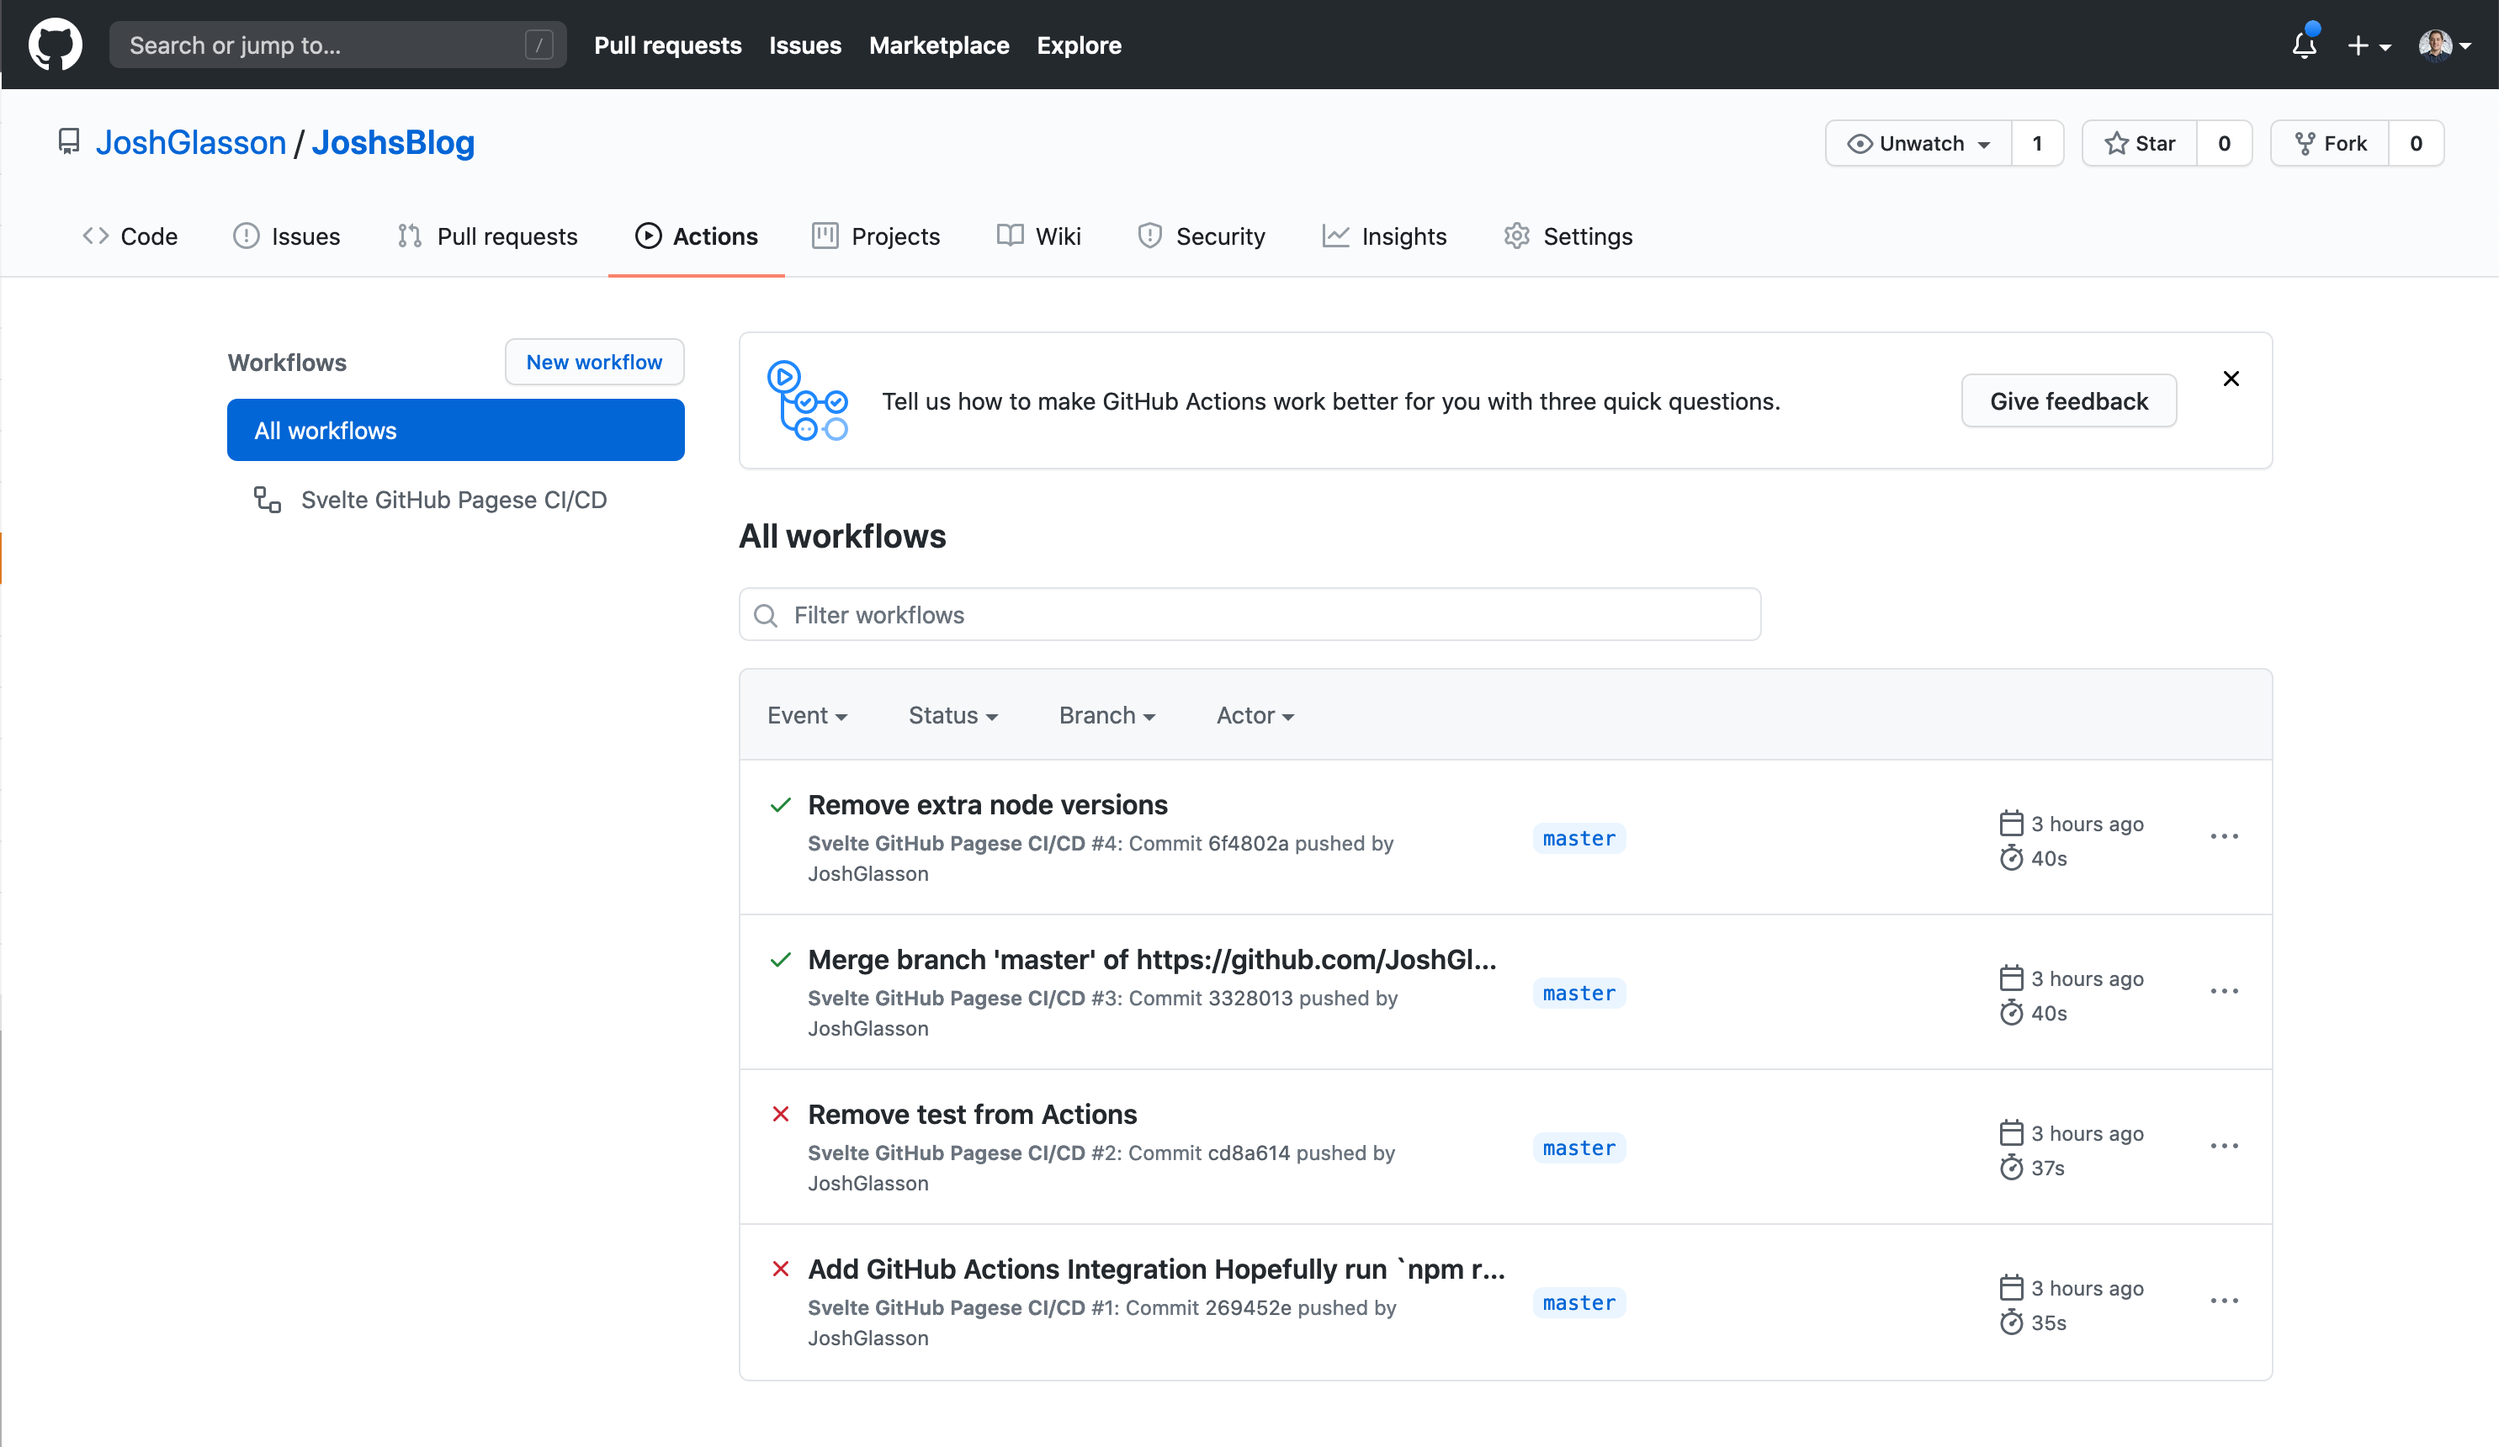
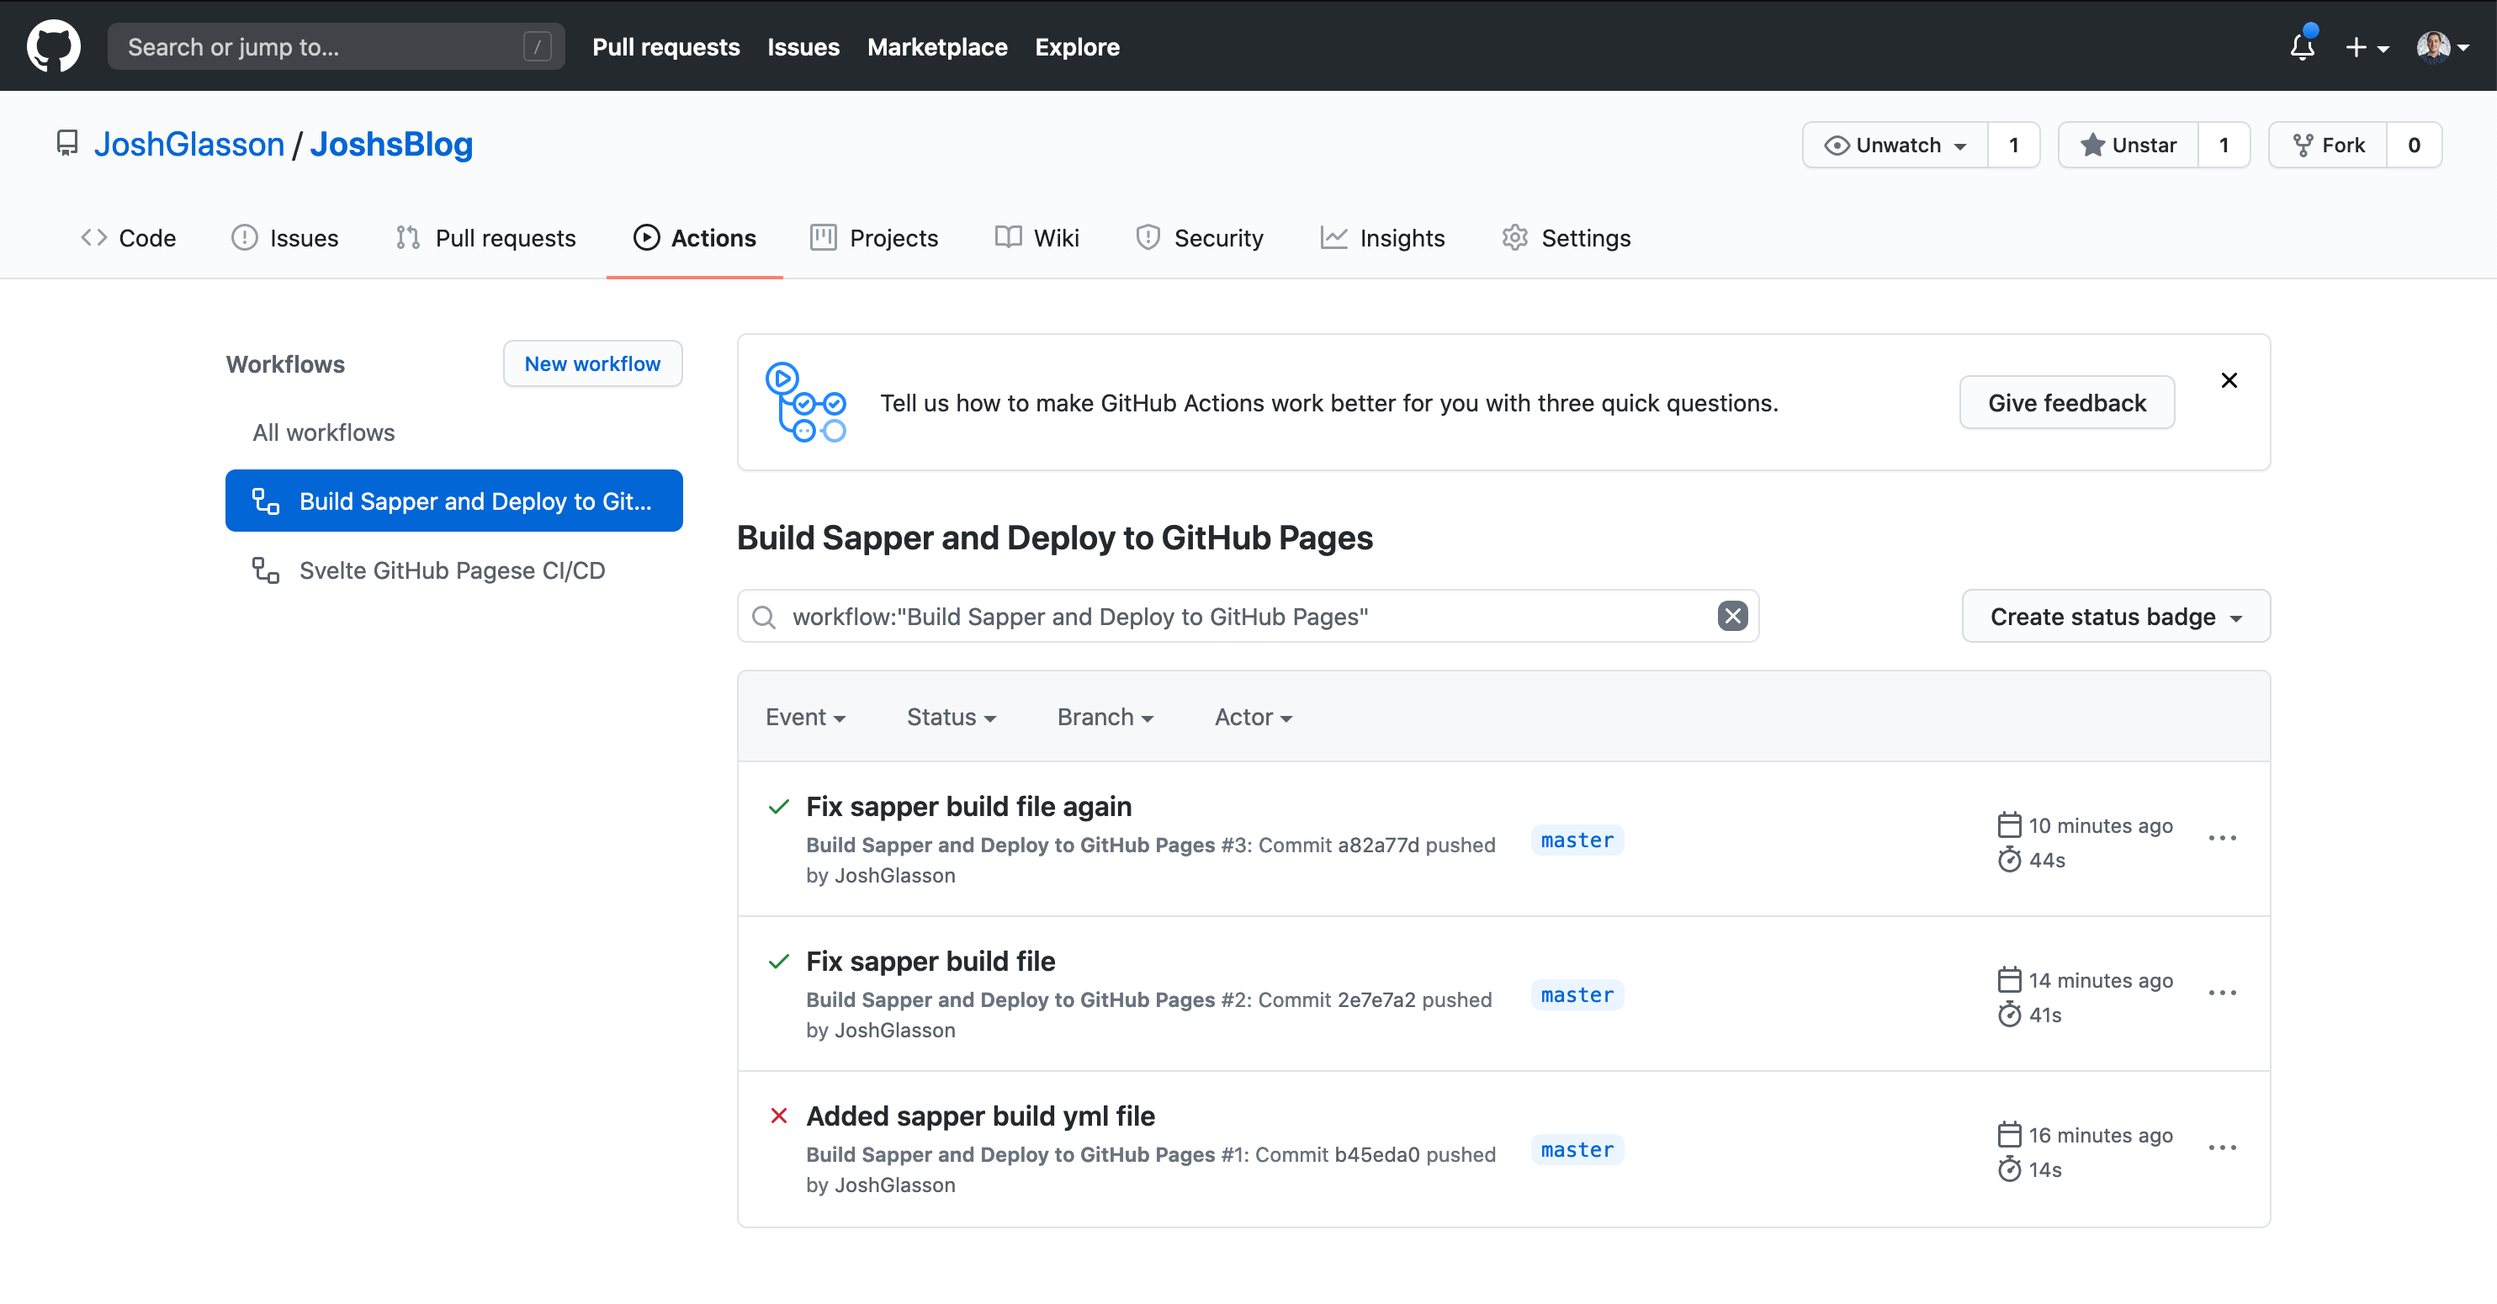
Updated blog to include Github Actions stuff

diff --git a/content/2020-07-24 creating-the-blog.md b/content/2020-07-24 creating-the-blog.md
@@ -169,9 +169,49 @@ I pretty much followed it to the word here, my only addition was adding this to 
 ```
 </div>
 
-This meant that before trying to deploy the app it would always rebuild and export it.
+This meant that before trying to deploy the app it would always rebuild and export it. I got this working and up on my GitHub Pages pretty quickly, so I can deploy with a simple `npm run reploy`. However running that command every time would be a bit annoying, so I added a GitHub Action to deploy it automatically. 
 
-I got this working and up on my GitHub Pages pretty quickly, so I can deploy with a simple `npm run reploy`.
+I found this post which helped me set up a `sapper_build.yml` file:
+<a href="https://github.com/marketplace/actions/sapper-action" target="_blank">https://github.com/marketplace/actions/sapper-action</a>
+
+<div id="codeSnippets">
+
+```yml
+name: Build Sapper and Deploy to GitHub Pages
+
+on:
+    push:
+        branches: [ master ]
+    pull_request:
+        branches: [ master ]
+
+jobs:
+  build_deploy:
+    runs-on: ubuntu-latest
+    steps:
+      - uses: actions/checkout@master
+      - name: Build Sapper
+        uses: truewebartisans/actions-sapper@master
+        with:
+            args: "--basepath JoshsBlog --legacy"
+      - name: Deploy to GitHub Pages
+        uses: peaceiris/actions-gh-pages@v3
+        with:
+          publish_dir: __sapper__/export/JoshsBlog/
+          publish_branch: gh-pages
+          github_token: ${{ secrets.GITHUB_TOKEN }}
+```
+</div>
+
+This meant that any time I pushed or merged to master, it would kick of this action, which will build and deploy my project into my gh-pages branch, where GitHub Pages reads the data from.
+
+<div id="imageDiv">
+  <figure>
+    <img src="./images/2020-07-24 creating-the-blog/github_actions.png" alt="GitHub Actions running my deploy script" />
+    <figcaption>GitHub Actions running my deploy script after each merge</figcaption>
+  </figure>
+</div>
+
 
 I realised that the posts were in chronological order, as in oldest at the top. That doesn't make much sense for a blog, so I flipped it round by editing the function used to retrieve the posts:
 

diff --git a/README.md b/README.md
@@ -1,5 +1,7 @@
 # Joshs Blog
 
+![Build Sapper and Deploy to GitHub Pages](https://github.com/JoshGlasson/JoshsBlog/workflows/Build%20Sapper%20and%20Deploy%20to%20GitHub%20Pages/badge.svg)
+
 This is the source code for my blog site. The gh-pages branch contains the code used to deploy to GitHub Pages.
 
 The blog can be found here: <a href="https://joshglasson.github.io/JoshsBlog/" target="_blank">https://joshglasson.github.io/JoshsBlog/</a>
